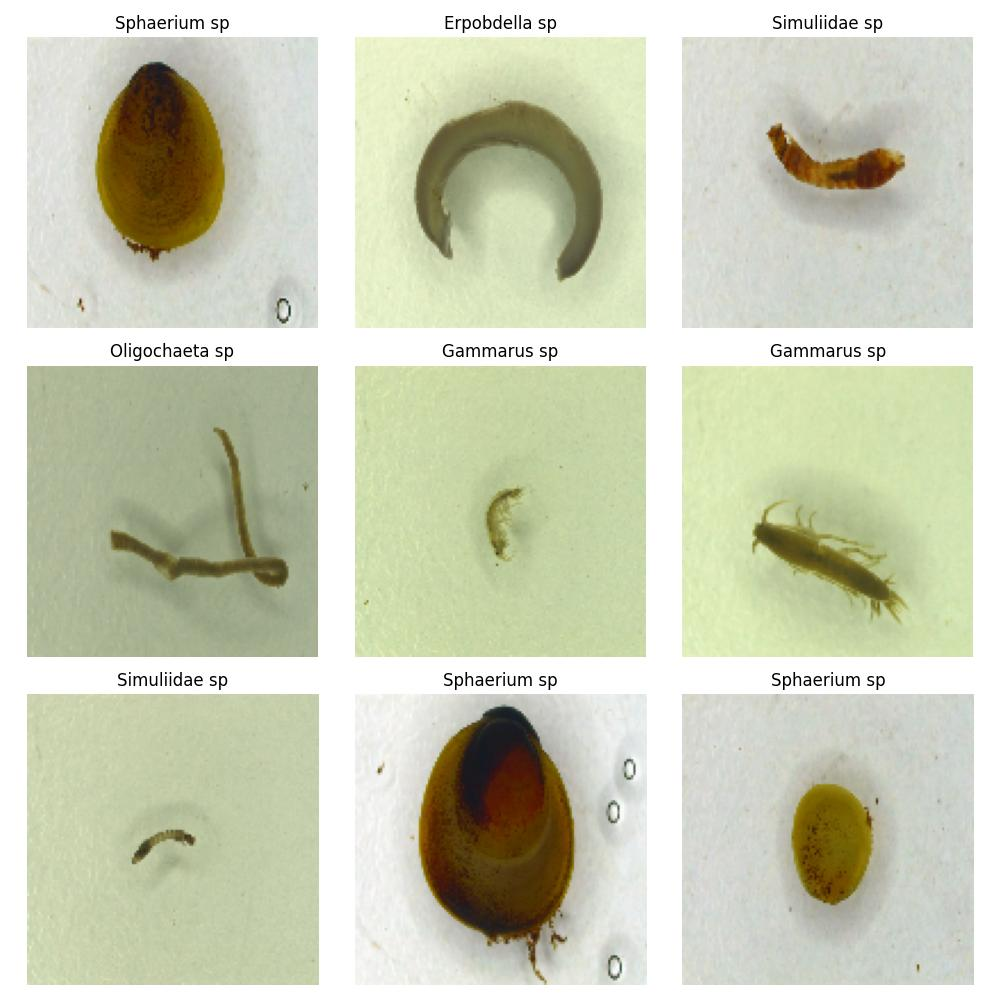
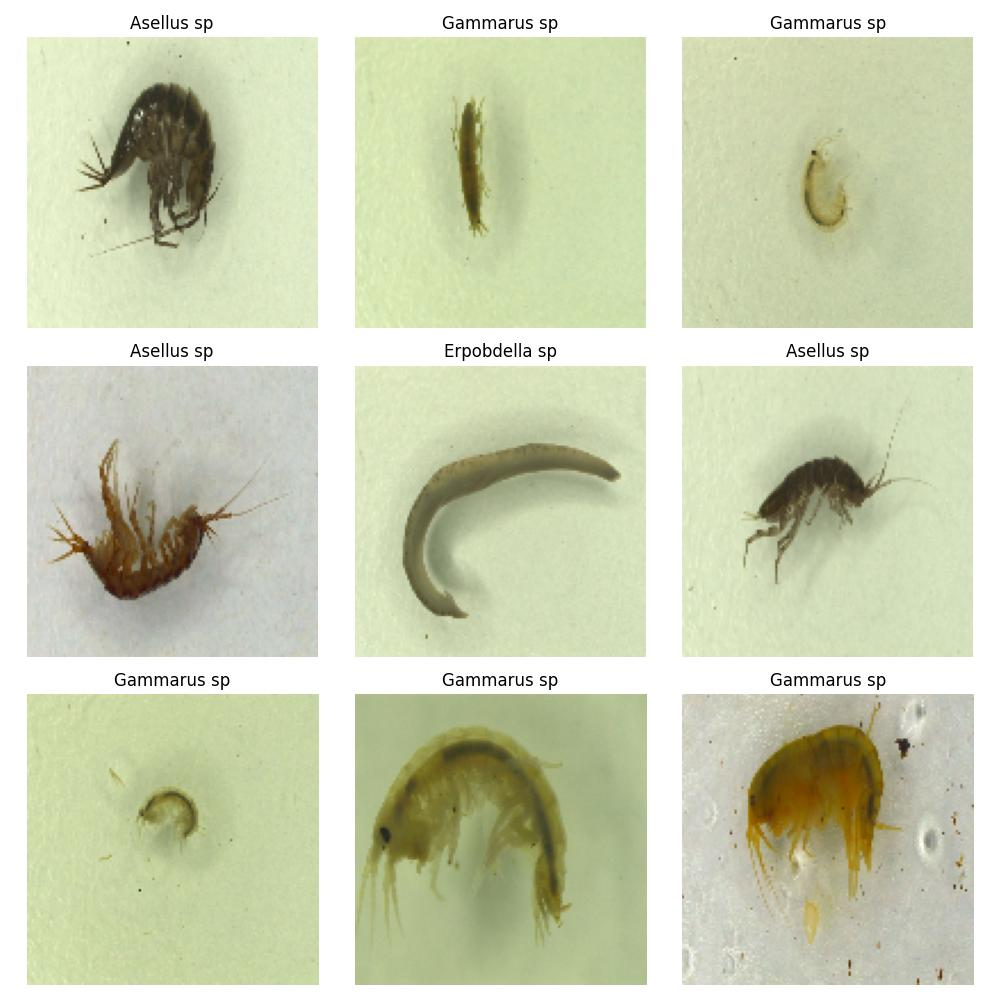
Final edit pre-submission

diff --git a/src/tkinter_app.py b/src/tkinter_app.py
@@ -1,13 +1,19 @@
-# tkinter_app.py
-# Creates an app that will host and display the output from the dataset & EDA model.
+"""
+-----------------------------------
+Authors:
+u3329817 & u3295540
+Software Technology 1 Assessment 3, 13/05/2026
+
+tkinter_app.py
+Creates an app that will host and display the output from the dataset & EDA model.
+-----------------------------------
+"""
 
 # Import Tkinter module that is used to build the app
 import tkinter as tk
 from PIL import Image, ImageTk
 import sys
 from pathlib import Path 
-
-"""Create a path to access the dataset_indexer, eda_service, and config codes"""
 # Required to resolve path to workflow_service.py
 sys.path.insert(0, str(Path(__file__).parent / "services")) 
 from workflow_service import WorkflowService
@@ -60,9 +66,11 @@ class GUI_App:
         self.result_label = tk.Label(self.resultbox_frame, bg="light green", anchor="center")
         self.result_label.pack(expand=True, fill="both")
 
+        self.welcome_message() # Initialise the welcome screen.
+
         tk.mainloop()
 
-    def show_chart(self, chart_path: Path) -> None:
+    def show_chart(self, chart_path) -> None:
         """Display a chart image in the result area."""
         image = Image.open(chart_path)
         image.thumbnail((750, 550))
@@ -77,7 +85,7 @@ class GUI_App:
                 "Hi Everyone!\n"
                 "=================================================================\n"               
                 "Welcome to the Dataset Indexer and EDA Service Application\n"
-                "build by Max and Jai! We are honored to see you here!\n"
+                "built by Max and Jai! We are honoured to see you here!\n"
                 "=================================================================\n"
                 "This app has some cool features that you can interact with\n"
                 "i.e., \n"
@@ -90,7 +98,7 @@ class GUI_App:
                 "To know more, why don't you just click on the buttons to your left and\n"
                 "see what this app can do!\n"
                 "=================================================================\n"
-                "Thanks for stopping by.\n"
+                "Thanks!\n"
                 "=================================================================\n",
                 font=("Arial", 10), justify="left",)
     

diff --git a/src/services/workflow_service.py b/src/services/workflow_service.py
@@ -1,6 +1,14 @@
-# workflow_service.py
-# Coordinates the workflow of the various service classes & the tkinter GUI.
-# Some parts of this script were adapted from the assignment guidance document.
+"""
+-----------------------------------
+Authors:
+u3329817 & u3295540
+Software Technology 1 Assessment 3, 13/05/2026
+
+workflow_service.py
+Coordinates the workflow of the various service classes & the tkinter GUI.
+Some parts of this script were adapted from the assignment guidance document.
+-----------------------------------
+"""
 
 from pathlib import Path
 import pandas as pd
@@ -26,10 +34,9 @@ class WorkflowService:
         """
         Generates and saves the relevant graph/grid, returning the file path.
 
-        Parameters
-        ----------
-        type : string
-            Specifies the image to be generated. Must be one of the following strings:
+        Parameters:
+        type (string)
+            Specifies the image to be generated. Must be one of the following:
             "class_count" : class count bar graph.
             "image_size_distribution" : image width & heights distribution bar graph.
             "sample_images" : grid of 9 sample images.

diff --git a/src/main.py b/src/main.py
@@ -1,5 +1,13 @@
-# main.py
-# This executes the main workflow of the program.
+"""
+-----------------------------------
+Authors:
+u3329817 & u3295540
+Software Technology 1 Assessment 3, 13/05/2026
+
+main.py
+This executes the main workflow of the program.
+-----------------------------------
+"""
 
 import sys
 from pathlib import Path
@@ -10,7 +18,7 @@ from workflow_service import WorkflowService
 from tkinter_app import GUI_App
 
 def main() -> None:
-    """Launch the Tkinter application."""
+    """Launches the Tkinter application."""
     workflow = WorkflowService()
     GUI_App(workflow)
 

diff --git a/src/services/eda_service.py b/src/services/eda_service.py
@@ -1,6 +1,14 @@
-# eda_service.py
-# Generates the analytical & visual data for the dataset.
-# A lot of the code used below was copied/adapted from the assignment guidance document.
+"""
+-----------------------------------
+Authors:
+u3329817 & u3295540
+Software Technology 1 Assessment 3, 13/05/2026
+
+eda_service.py
+Generates the analytical & visual data for the dataset.
+A lot of the code used below was copied/adapted from the assignment guidance document.
+-----------------------------------
+"""
 
 import sys
 import cv2

diff --git a/src/config.py b/src/config.py
@@ -1,5 +1,13 @@
-# config.py
-# This is where configuration data is stored for the project.
+"""
+-----------------------------------
+Authors:
+u3329817 & u3295540
+Software Technology 1 Assessment 3, 13/05/2026
+
+config.py
+This is where configuration data is stored for the project.
+-----------------------------------
+"""
 
 from pathlib import Path
 

diff --git a/src/services/dataset_indexer.py b/src/services/dataset_indexer.py
@@ -1,3 +1,14 @@
+"""
+-----------------------------------
+Authors:
+u3329817 & u3295540
+Software Technology 1 Assessment 3, 13/05/2026
+
+dataset_indexer.py
+Indexes the raw image data into a pandas DataFrame for easy analysis.
+-----------------------------------
+"""
+
 import sys
 from pathlib import Path
 import cv2